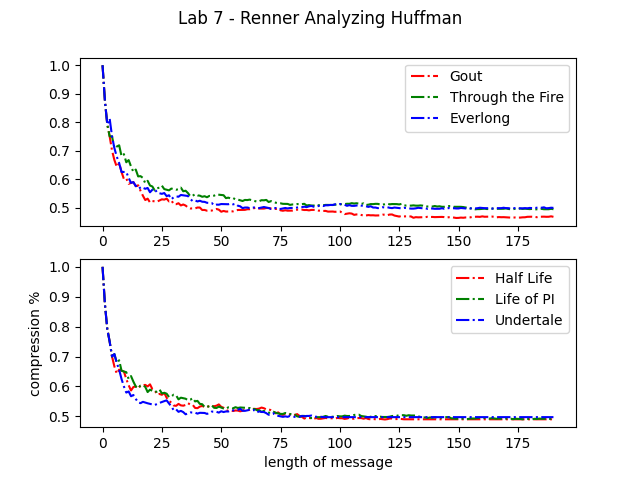
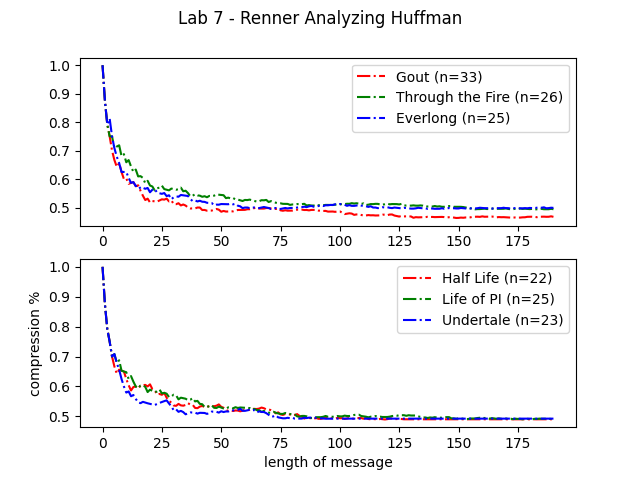
included unique character count for each graph

Changed region(s): [[0.625, 0.125, 0.875, 0.2812], [0.6875, 0.5625, 0.875, 0.6875], [0.4062, 0.8438, 0.875, 0.875]]

diff --git a/b_huffman-analysis.py b/b_huffman-analysis.py
@@ -11,7 +11,7 @@ EVERLONG = "Hello I've waited here for you Everlong Tonight, I throw myself into
 # DATA - mantras
 HALF_LIFE = 'The right man in the wrong place can make all the difference in the world. So wake up, Mr. Freeman. Wake up and smell the ashes.'
 LIFE_OF_PI = 'I suppose in the end the whole of life becomes an act of letting go. But what always hurts the most is not taking a moment to say goodbye. I was never able to thank my father for all I learned from him, to tell him that without his lessons I would never have survived.'
-UNDERTALE = 'Knowing the mouse might one day leave its hole and get the cheese. Youre filled with determination'
+UNDERTALE = "Knowing the mouse might one day leave its hole and get the cheese. You're filled with determination"
 
 # the input, what we want to encode
 def huffman(message:str) -> float:
@@ -124,10 +124,10 @@ MAX_N: int = int(128 * 3 / 2)
 ratios: list = list()
 for i in range(1, MAX_N):
     sub_message = GOUT[0:i]
-    _, _, ratio = huffman(sub_message)
+    _, a, ratio = huffman(sub_message)
     ratios.append(ratio)
 
-plt.plot(ratios, '-.', color = 'red', label = 'Gout')
+plt.plot(ratios, '-.', color = 'red', label = 'Gout (n=33)')
 
 
 ## THROUGH THE FIRE
@@ -137,7 +137,7 @@ for i in range(1, MAX_N):
     _, _, ratio = huffman(sub_message)
     ratios.append(ratio)
 
-plt.plot(ratios, '-.', color = 'green', label = 'Through the Fire')
+plt.plot(ratios, '-.', color = 'green', label = 'Through the Fire (n=26)')
 
 
 ## EVERLONG
@@ -147,7 +147,7 @@ for i in range(1, MAX_N):
     _, _, ratio = huffman(sub_message)
     ratios.append(ratio)
 
-plt.plot(ratios, '-.', color = 'blue', label = 'Everlong')
+plt.plot(ratios, '-.', color = 'blue', label = 'Everlong (n=25)')
 plt.legend()
 
 # PLOT 2
@@ -160,7 +160,7 @@ for i in range(1, MAX_N):
     _, _, ratio = huffman(sub_message)
     ratios.append(ratio)
 
-plt.plot(ratios,'-.', color = 'red', label = 'Half Life')
+plt.plot(ratios,'-.', color = 'red', label = 'Half Life (n=22)')
 
 ## LIFE OF PI
 ratios: list = list()
@@ -169,7 +169,7 @@ for i in range(1, MAX_N):
     _, _, ratio = huffman(sub_message)
     ratios.append(ratio)
 
-plt.plot(ratios, '-.', color = 'green', label = 'Life of PI')
+plt.plot(ratios, '-.', color = 'green', label = 'Life of PI (n=25)')
 
 ## JEDI CODE
 ratios: list = list()
@@ -178,7 +178,7 @@ for i in range(1, MAX_N):
     _, _, ratio = huffman(sub_message)
     ratios.append(ratio)
 
-plt.plot(ratios, '-.', color = 'blue', label = 'Undertale')
+plt.plot(ratios, '-.', color = 'blue', label = 'Undertale (n=23)')
 plt.ylabel('compression %')
 plt.xlabel('length of message')
 plt.legend()
